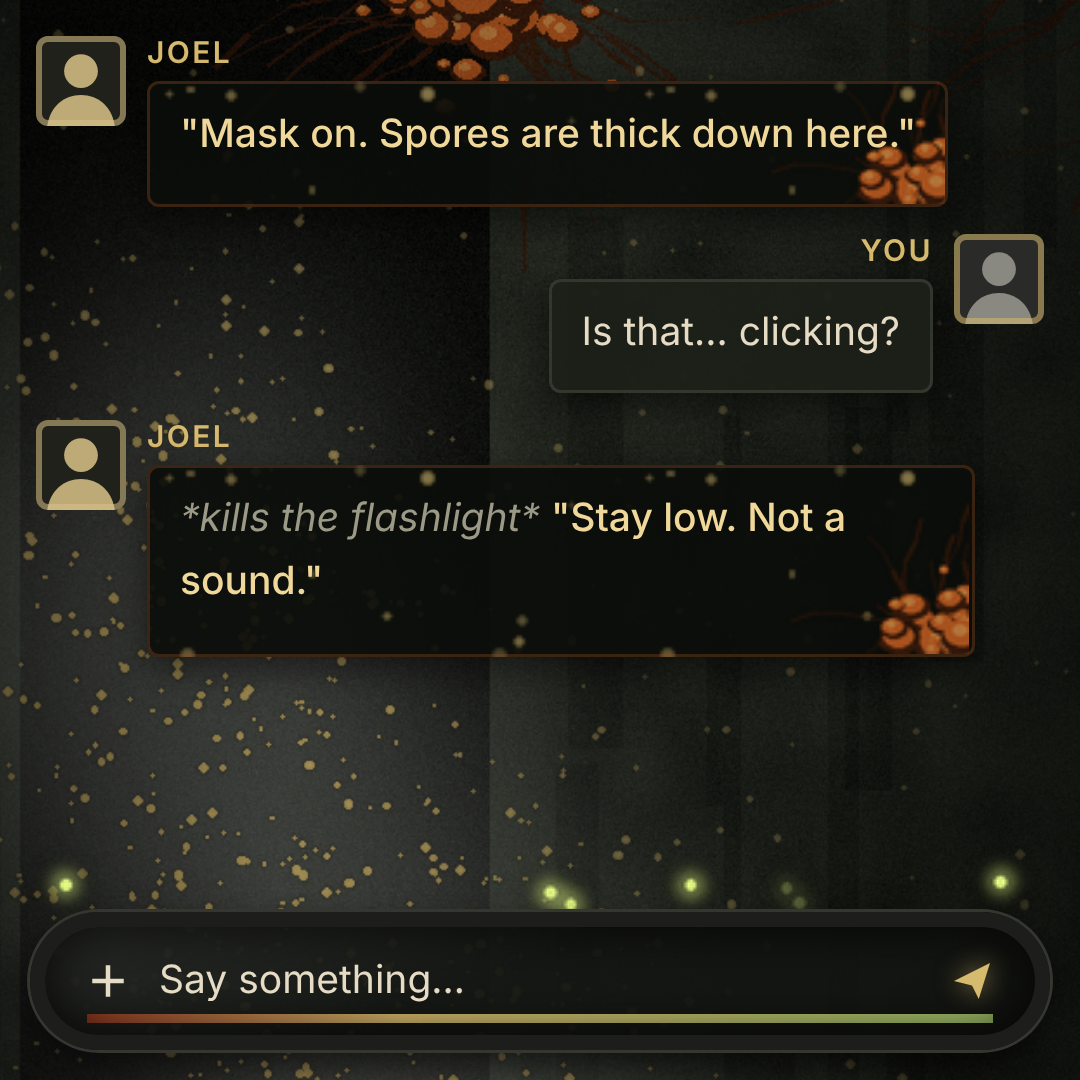
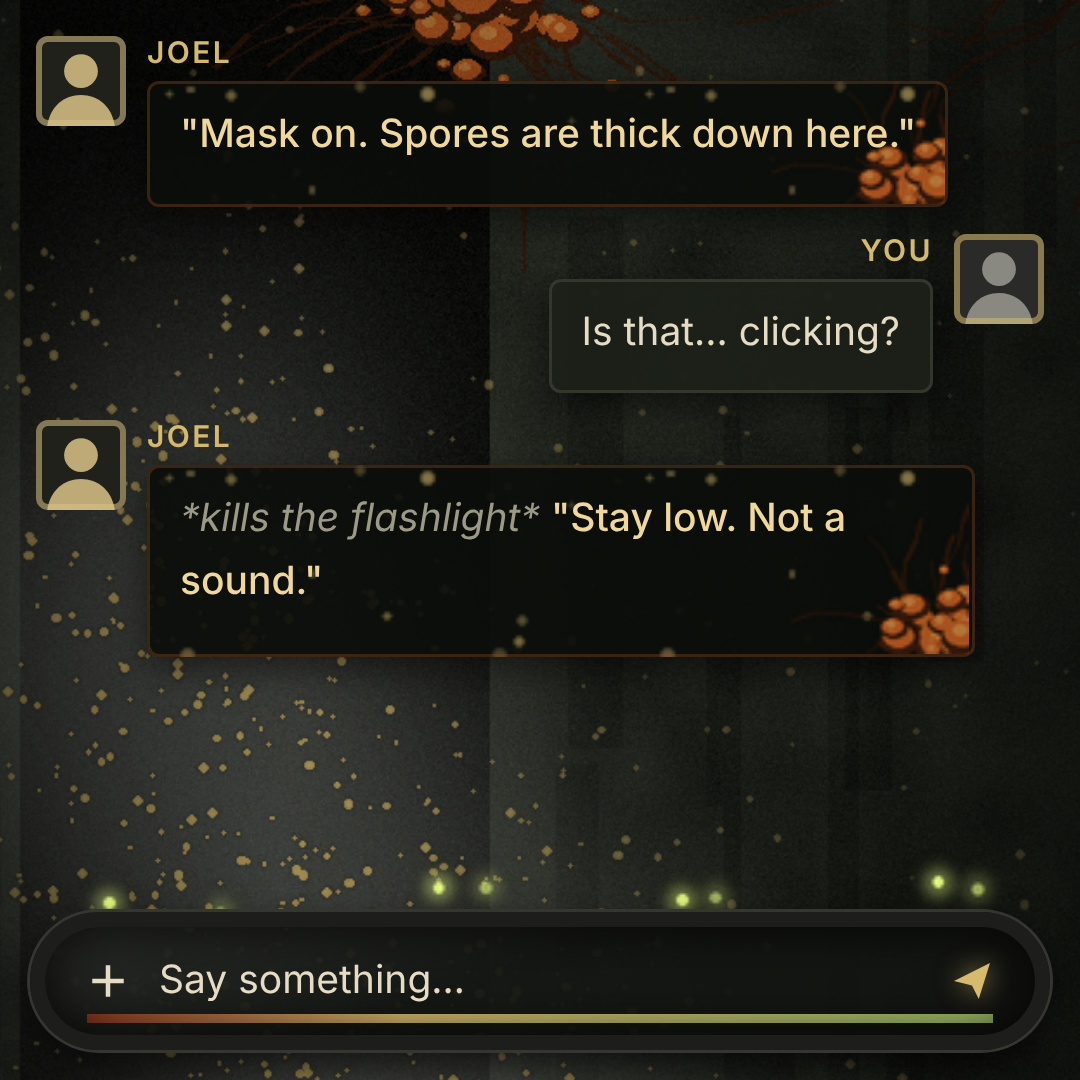
TLOU Spores: smooth drifting fireflies instead of frame swapping
Claude-Session: https://claude.ai/code/session_011AdgnKtmEQrsYZ6duuAFrr

diff --git a/themes/tlou-spores/style.css b/themes/tlou-spores/style.css
@@ -18,12 +18,13 @@
   50%      { box-shadow: 0 0 0 1px rgba(255, 255, 255, 0.85), 0 0 26px rgba(255, 255, 255, 0.45); }
 }
 
+/* Плавный дрейф двух слоёв светлячков навстречу друг другу (360px = ширина тайла) */
 @keyframes tlou-fireflies {
-  0%   { background-image: url("theme/assets/fireflies-0.png"); }
-  25%  { background-image: url("theme/assets/fireflies-1.png"); }
-  50%  { background-image: url("theme/assets/fireflies-2.png"); }
-  75%  { background-image: url("theme/assets/fireflies-3.png"); }
-  100% { background-image: url("theme/assets/fireflies-0.png"); }
+  0%   { background-position: 0 0, 0 2px; }
+  25%  { background-position: -90px 3px, 90px -1px; }
+  50%  { background-position: -180px 0, 180px 2px; }
+  75%  { background-position: -270px -3px, 270px 4px; }
+  100% { background-position: -360px 0, 360px 2px; }
 }
 
 @keyframes tlou-filter {
@@ -149,11 +150,13 @@
 /* ---------- Светлячки над полем ввода: Look for the light ---------- */
 .tavo-composer {
   padding-top: 24px;
-  background-image: url("theme/assets/fireflies-0.png");
-  background-size: auto 36px;
-  background-repeat: no-repeat;
-  background-position: center top;
-  animation: tlou-fireflies 2.6s steps(1, end) infinite;
+  background-image:
+    url("theme/assets/fireflies-a.png"),
+    url("theme/assets/fireflies-b.png");
+  background-size: 360px 36px, 360px 36px;
+  background-repeat: repeat-x, repeat-x;
+  background-position: 0 0, 0 2px;
+  animation: tlou-fireflies 48s linear infinite;
 }
 
 /* ---------- Поле ввода: стекло противогаза ---------- */

diff --git a/themes/tlou-spores/build.py b/themes/tlou-spores/build.py
@@ -144,23 +144,21 @@ def make_fungus_corner():
 
 
 def make_fireflies():
-    """Четыре кадра светлячков для полосы над полем ввода."""
+    """Два слоя светлячков (яркие и тусклые), тайлятся по горизонтали."""
     w, h = 720, 72
-    rng = random.Random(17)
-    flies = [(rng.uniform(30, w - 30), rng.uniform(26, h - 26)) for _ in range(7)]
-    for f in range(4):
+    for name, seed, n, alpha in [("fireflies-a.png", 17, 4, 255), ("fireflies-b.png", 23, 4, 150)]:
+        rng = random.Random(seed)
         img = Image.new("RGBA", (w, h), (0, 0, 0, 0))
         glow = Image.new("RGBA", (w, h), (0, 0, 0, 0))
         d, gd = ImageDraw.Draw(img), ImageDraw.Draw(glow)
-        for i, (x, y) in enumerate(flies):
-            on = (i + f) % 3 != 0
-            x += math.sin(f * 1.6 + i) * 6
-            y += math.cos(f * 1.3 + i * 2) * 4
-            a = 255 if on else 60
-            gd.ellipse([x - 13, y - 13, x + 13, y + 13], fill=FIREFLY + (a // 2,))
-            d.ellipse([x - 3.4, y - 3.4, x + 3.4, y + 3.4], fill=FIREFLY + (a,))
+        for i in range(n):
+            # равномерно по ширине, чтобы при прокрутке не было «дыр»
+            x = (i + rng.uniform(0.25, 0.75)) * w / n
+            y = rng.uniform(26, h - 26)
+            gd.ellipse([x - 13, y - 13, x + 13, y + 13], fill=FIREFLY + (alpha // 2,))
+            d.ellipse([x - 3.4, y - 3.4, x + 3.4, y + 3.4], fill=FIREFLY + (alpha,))
         glow = glow.filter(ImageFilter.GaussianBlur(6))
-        Image.alpha_composite(glow, img).resize((w // 2, h // 2), Image.LANCZOS).save(ASSETS / f"fireflies-{f}.png", optimize=True)
+        Image.alpha_composite(glow, img).resize((w // 2, h // 2), Image.LANCZOS).save(ASSETS / name, optimize=True)
 
 
 def font(color, tone, quote):

diff --git a/themes/tlou-spores/README.md b/themes/tlou-spores/README.md
@@ -7,7 +7,7 @@
 
 Фишки:
 - 🍄 **Споры:** медленно плывут по сообщениям персонажа, а из угла сообщения растёт кордицепс.
-- ✨ **Светлячки:** мигают над полем ввода («Look for the light»).
+- ✨ **Светлячки:** два слоя медленно и плавно плывут над полем ввода навстречу друг другу («Look for the light»).
 - 😷 **Противогаз:** поле ввода оформлено как стекло маски в резиновой оправе, внизу полоска фильтра. Пока персонаж генерирует, фильтр расходуется, а стекло запотевает в ритме дыхания.
 - 👂 **Listen Mode:** во время генерации ваши сообщения и аватар становятся серыми и тусклыми, а сообщения, аватар и имя персонажа светятся белым силуэтом, как враги в режиме прислушивания.
 
